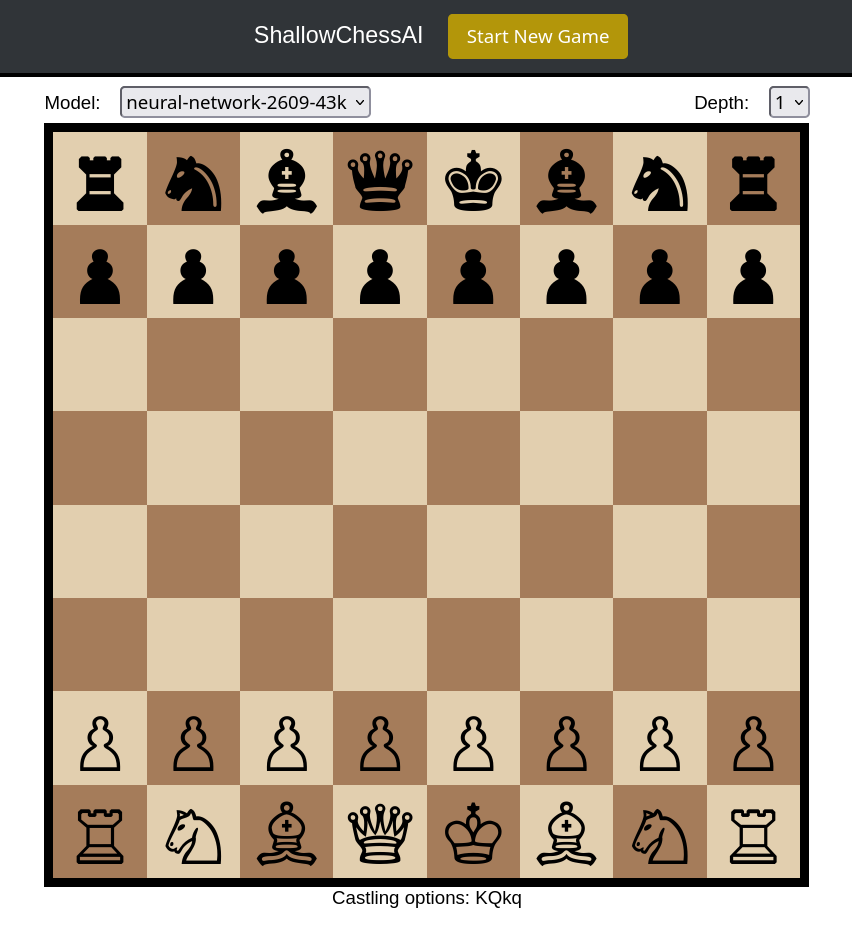
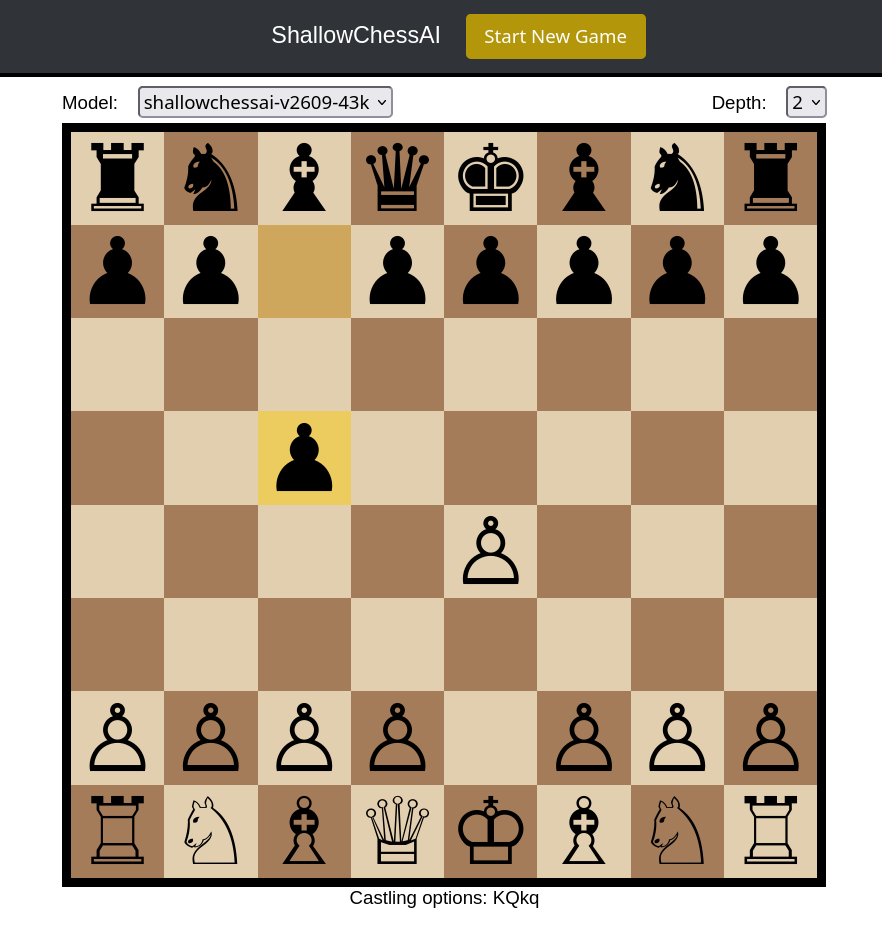
Update 2026/09/10

diff --git a/train/README.md b/train/README.md
@@ -67,7 +67,7 @@ For this project, a custom formula is derived from scratch to satisfy the follow
 
 For non-mate positions, a hyperbolic tangent function is used:
 
-$$\text{score} = 2 \, \tanh \! \left( \frac{\text{cp}}{364} \right)$$
+$$\text{score} = 2 \tanh \left( \frac{\text{cp}}{364} \right)$$
 
 The input cp is clipped to $\left[ -1500, +1500 \right]$.
 The constant $364$ is chosen specifically to map the range of $\left[ -200, +200 \right]$ cp to the $\left[-1, +1 \right]$ interval.
@@ -75,7 +75,7 @@ This ensures a high gradient near zero ($\approx 0.0055$ score per cp) increasin
 
 Mate positions are handled separately to preserve strict ordering. For a mate in N plies:
 
-$$\text{score} = \pm \! \left( 2 + \frac{1}{N ^ {2/3}} \right)$$
+$$\text{score} = \pm \left( 2 + \frac{1}{N ^ {2/3}} \right)$$
 
 By placing these values above $\pm 2$, the model can distinguish between "slightly winning" and "forced mate", as well as different mates.
 

diff --git a/train/test/README.md b/train/test/README.md
@@ -50,7 +50,7 @@ python3 ../dataset/05_plot_cp_distribution.py \
 
 ![Centipawn distribution plot](./test_set_fen_1302_cp_distribution.png)
 
-Overall, the shape of the distribution seems to closely mirror the one in the training dataset.
+Overall, the shape of the distribution seems to closely mirror the one in the [training dataset](../dataset/README.md).
 
 The mean value is basically the same (+16 cp vs +15 cp of the training set).
 Roughly 30% of non-mate positions fall within ±100 cp, a slightly higher fraction than the 28% observed in the training set.
